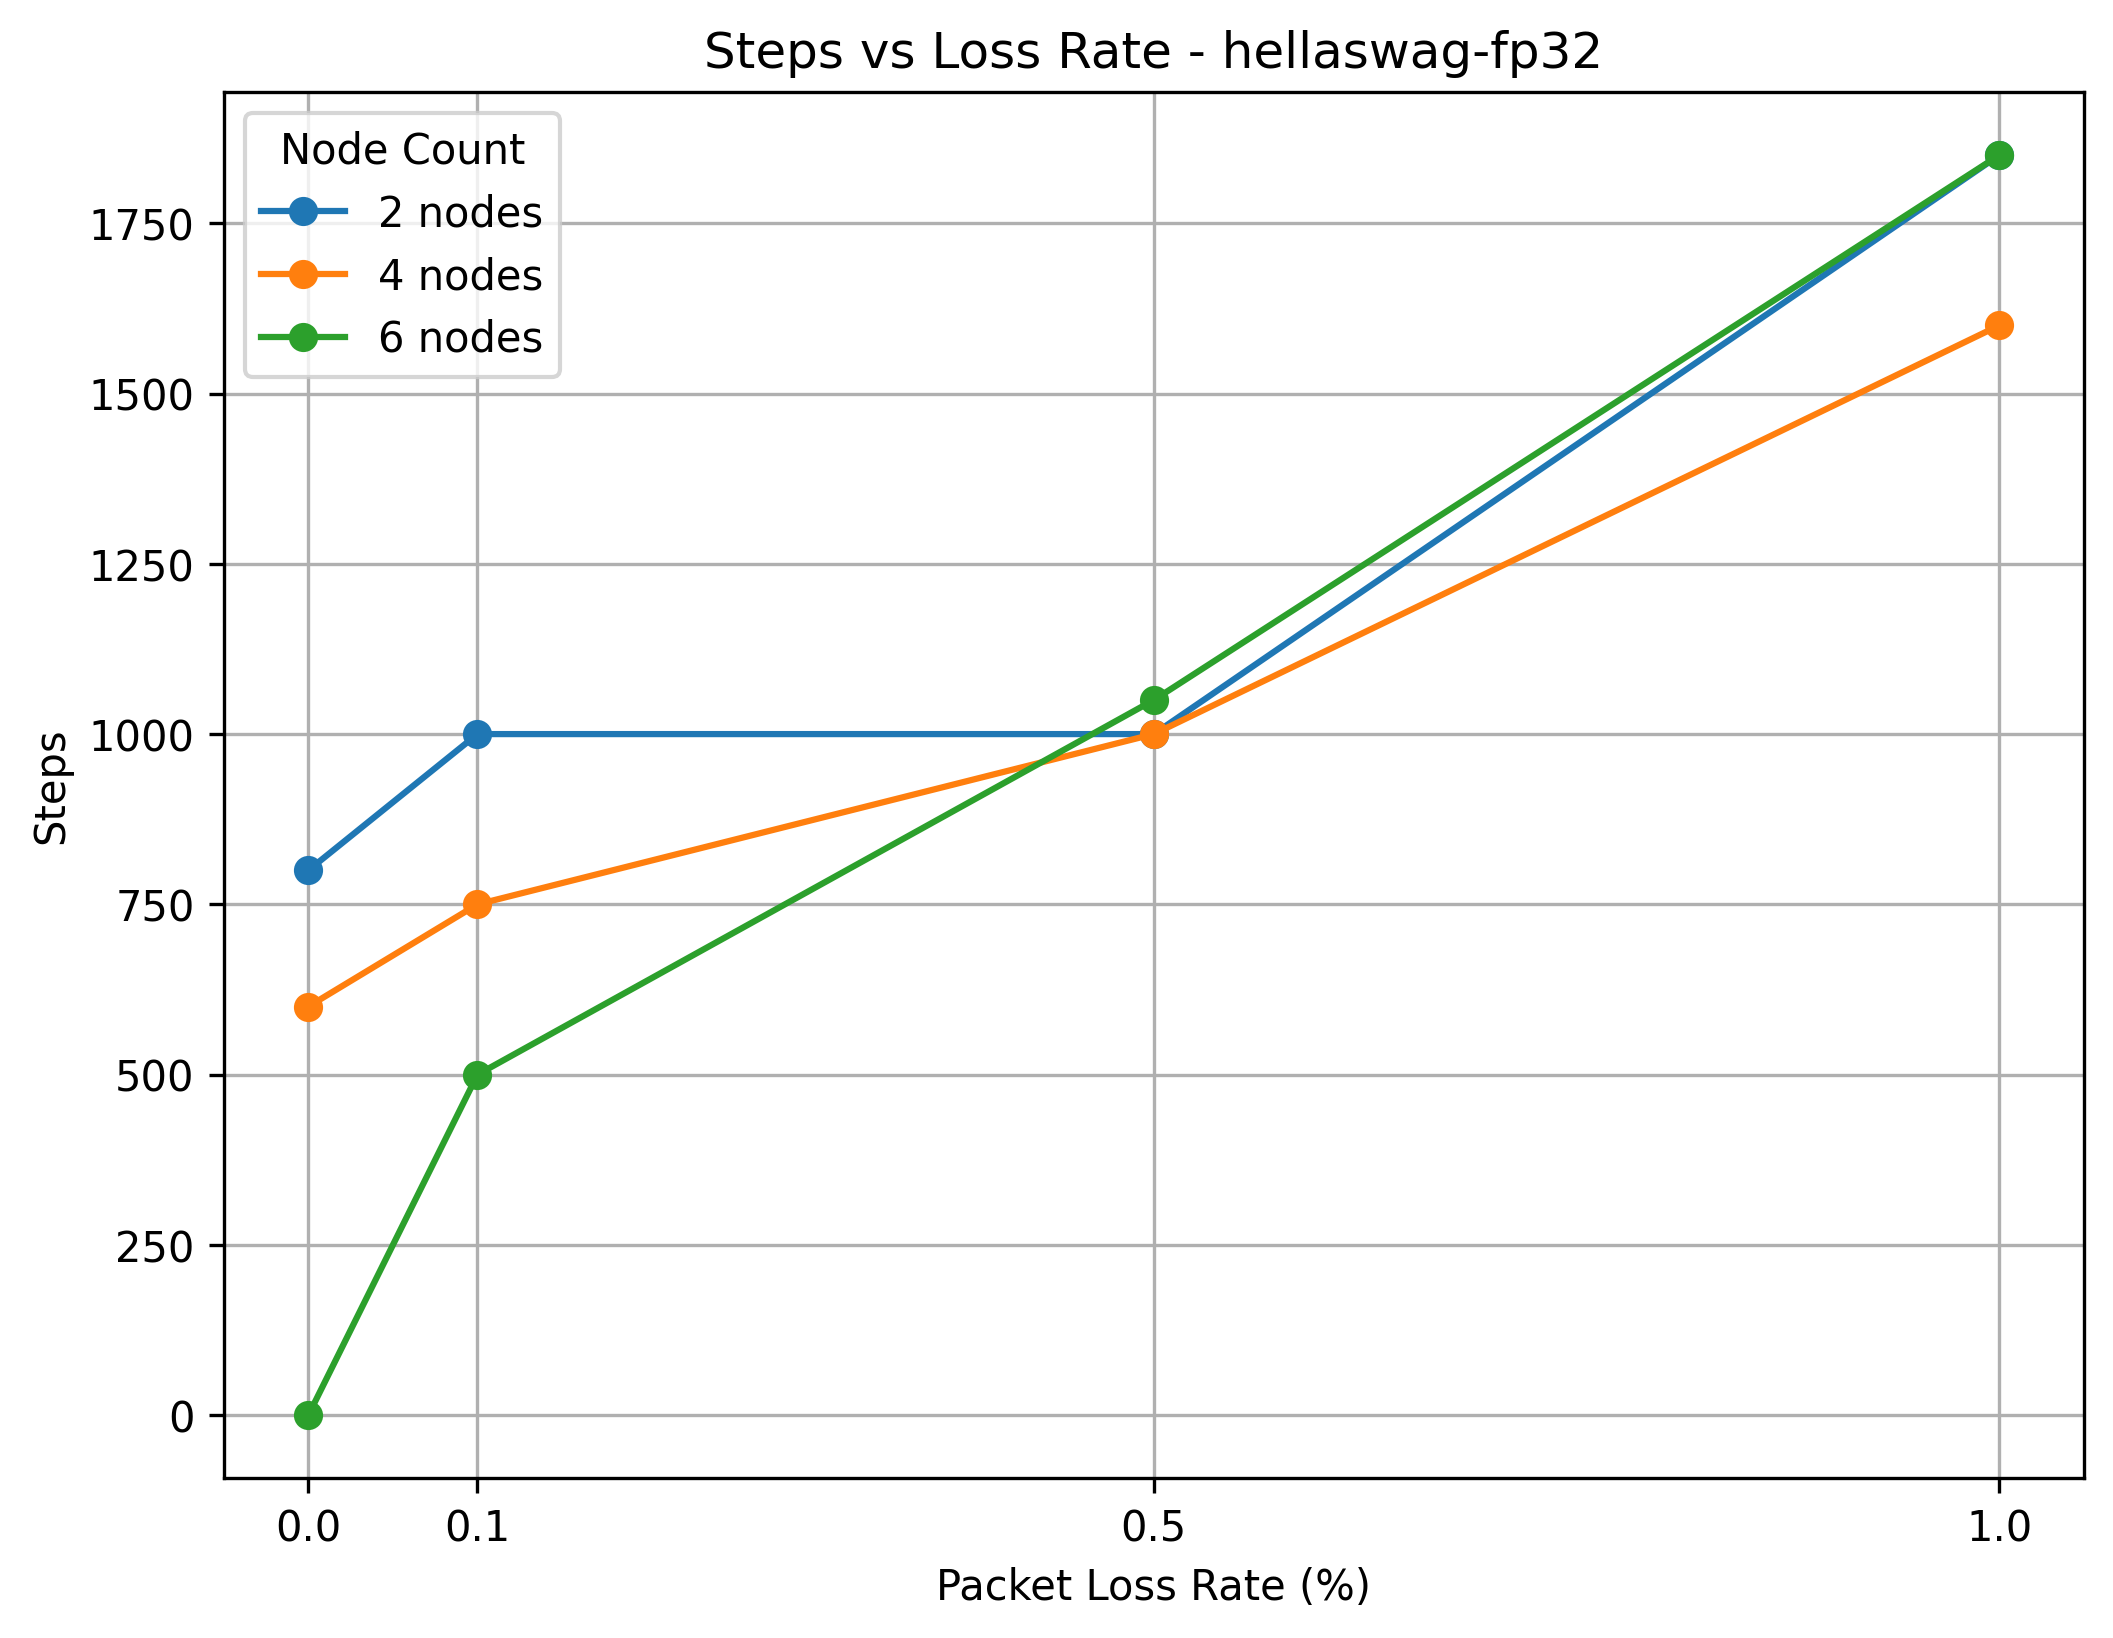
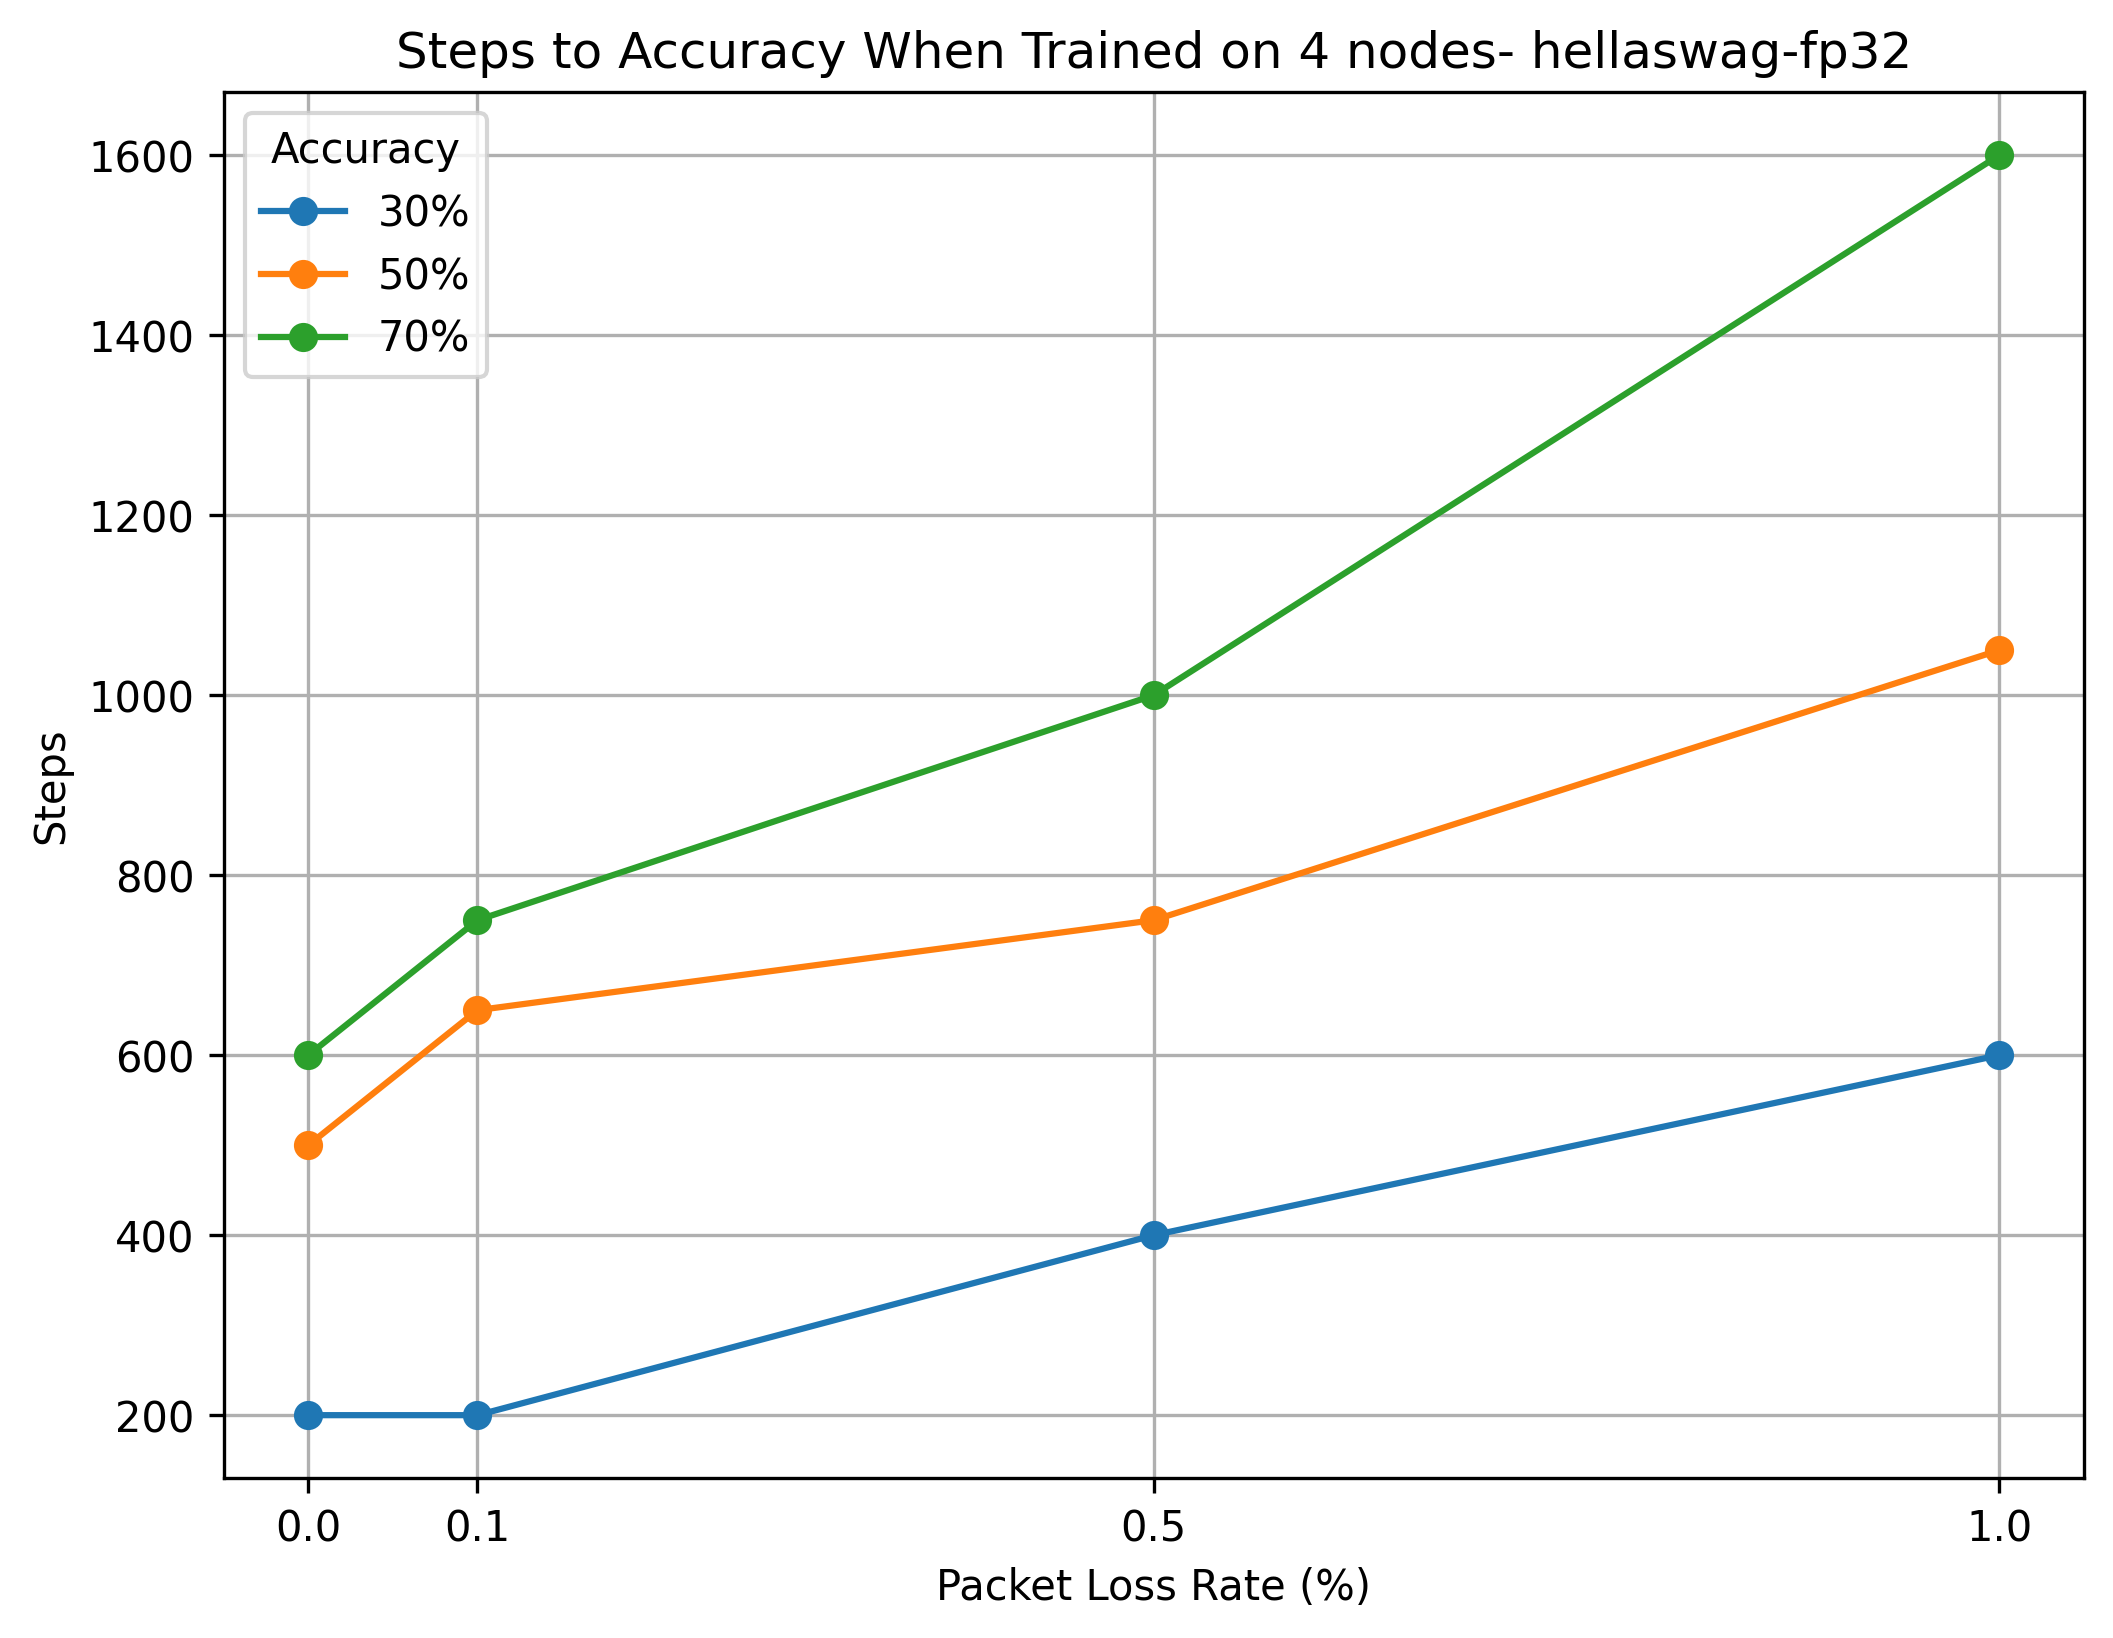
modified steps to accuracy at 4 nodes

diff --git a/plot_and_save_results.py b/plot_and_save_results.py
@@ -21,22 +21,19 @@ def plot_steps_vs_nodes(data, dataset_name, save_path, accuracy_threshold=0.75):
 
 def plot_steps_vs_loss_rate(data, dataset_name, save_path):
     fig, ax = plt.subplots(figsize=(8, 6), dpi=300)
-    ax.set_title(f"Steps vs Loss Rate - {dataset_name}")
+    ax.set_title(f"Steps to Accuracy When Trained on 4 nodes- {dataset_name}")
     ax.set_xlabel("Packet Loss Rate (%)")
     ax.set_ylabel("Steps")
     x = [0.0, 0.1, 0.5, 1.0]
     ax.set_xticks(x)
     ax.set_xticklabels([str(i) for i in x])
-    
-    # For each node count (2, 4, 6 nodes - indices 0, 1, 2)
-    for node_idx, node_count in enumerate([2, 4, 6]):
-        steps = []
-        for loss_rate in ["0", "0.001", "0.005", "0.01"]:
-            steps.append(data[loss_rate][node_idx])
-        ax.plot(x, steps, label=f"{node_count} nodes", marker='o')
-    
-    ax.legend(title="Node Count")
+    accuracies = list(data.keys())
+    for i in range(len(accuracies)):
+        acc = accuracies[i]
+        ax.plot(x, data[acc], label=acc, marker='o')
+    ax.legend(title="Accuracy")
     ax.grid()
+
     plt.savefig(save_path, bbox_inches='tight')
     plt.close()
 
@@ -45,20 +42,23 @@ def main():
     os.makedirs("plots", exist_ok=True)
     
     # Load results
-    with open("results/results.json", "r") as f:
-        results = json.load(f)
+    with open("results/tta-node_count.json", "r") as f:
+        tta_node_count = json.load(f)
     
+    with open("results/tta-loss_rate.json", "r") as f:
+        tta_loss_rate = json.load(f)
     # Create plots for each dataset
-    for dataset_name in results.keys():
+    for dataset_name in tta_node_count.keys():
         # Create both types of plots for each dataset
         plot_steps_vs_nodes(
-            results[dataset_name],
+            tta_node_count[dataset_name],
             dataset_name,
             f"plots/{dataset_name}_steps_vs_nodes.png"
         )
         
+    for dataset_name in tta_loss_rate.keys():
         plot_steps_vs_loss_rate(
-            results[dataset_name],
+            tta_loss_rate[dataset_name],
             dataset_name,
             f"plots/{dataset_name}_steps_vs_loss_rate.png"
         )
